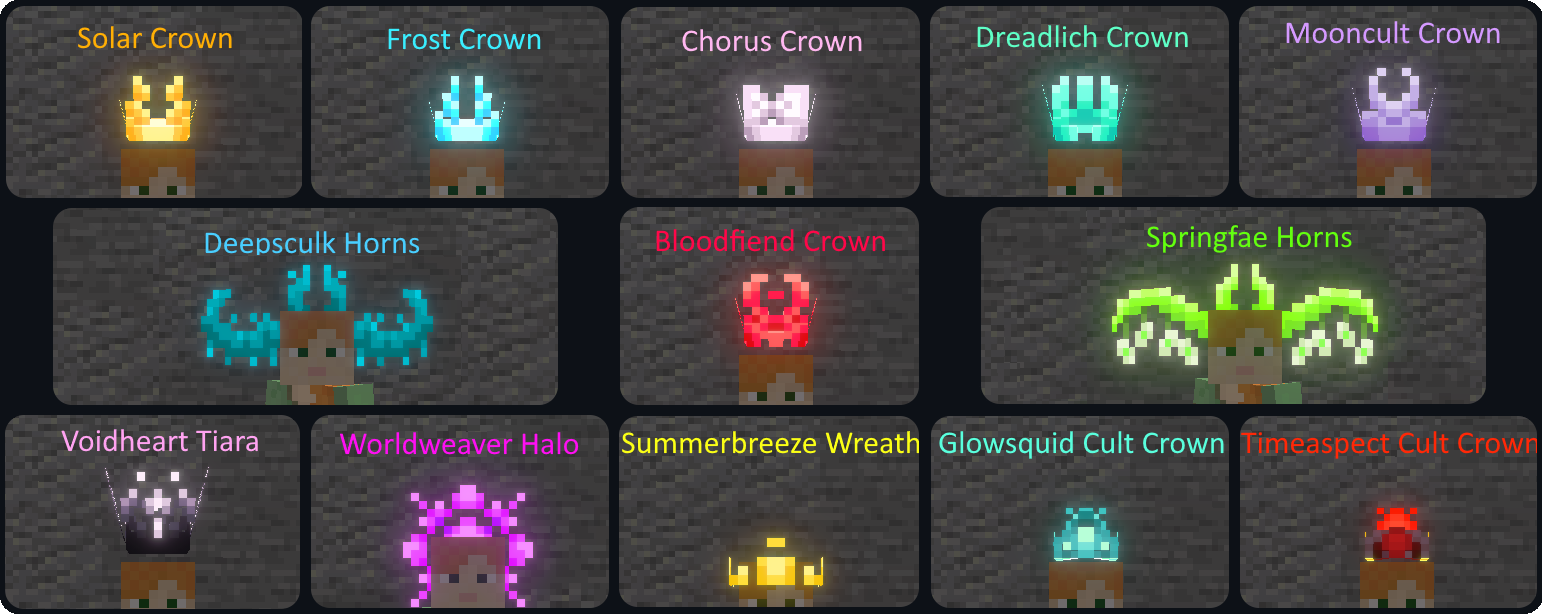
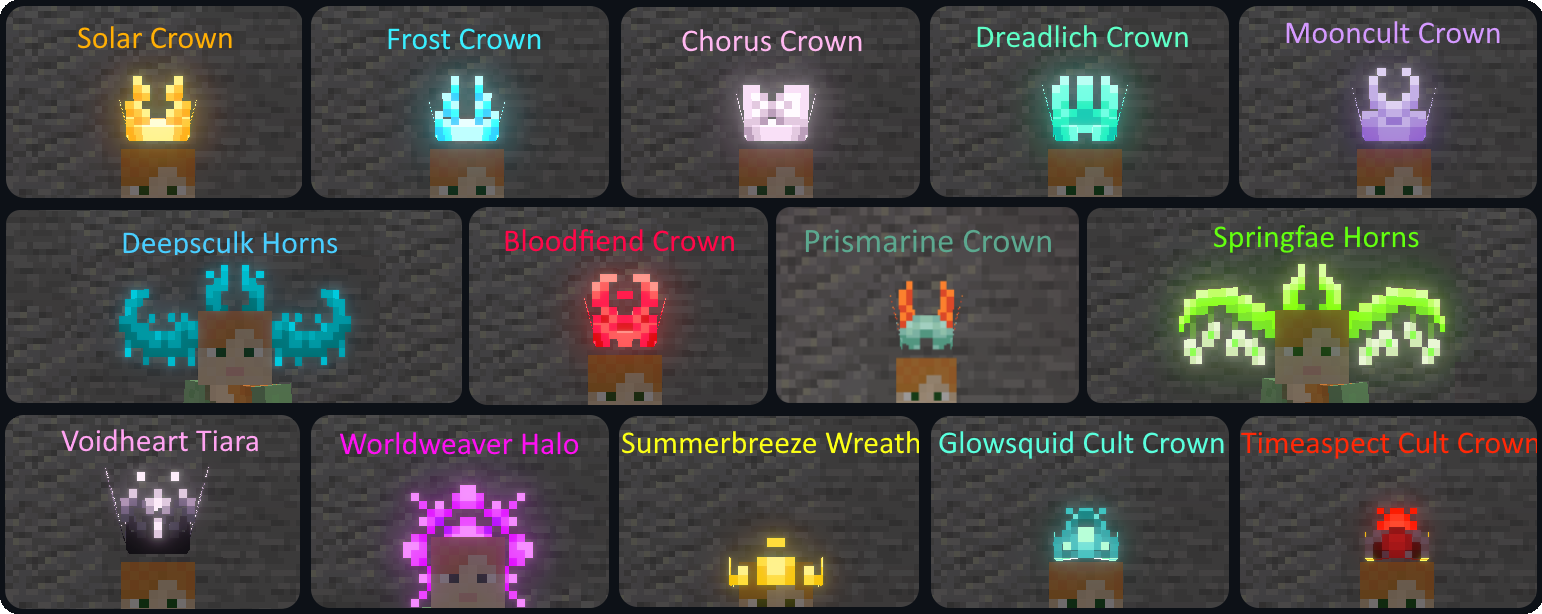
Update Illuminations wiki (#35)

Changed region(s): [[0.0, 0.3094, 1.0, 0.6808]]

diff --git a/wiki/illuminations.md b/wiki/illuminations.md
@@ -7,8 +7,6 @@ curse_project: 292908
 
 # Illuminations
 
-*[![img](https://img.shields.io/discord/292744693803122688?color=informational&label=Ladysnake&logo=Discord)](https://ladysnake.glitch.me)[![img](http://cf.way2muchnoise.eu/full_illuminations_downloads.svg)](https://www.curseforge.com/minecraft/mc-mods/illuminations)[![img](http://cf.way2muchnoise.eu/versions/minecraft_illuminations_latest.svg)](https://www.curseforge.com/minecraft/mc-mods/illuminations)[![img](https://img.shields.io/github/last-commit/ladysnake/illuminations)](https://github.com/ladysnake/illuminations/commits/main)*
-
 **Illuminations** is a client sided Minecraft Fabric mod that adds multiple ambient particles in order to make your world more enjoyable at night or in dark places.
 This mod is compatible with the [Canvas Renderer](https://www.curseforge.com/minecraft/mc-mods/canvas-renderer).
 
@@ -22,23 +20,31 @@ This mod is compatible with the [Canvas Renderer](https://www.curseforge.com/min
 
 #### Fireflies
 
-**Fireflies** are small flying insects that come out during the night and disappear when the sun rises. They will appear in small quantities in jungle, plains, savanna and taiga type biomes, medium quantities in forest and river type biomes and great quantity in swamp type biomes.
+**Fireflies** are small flying insects that **come out during the night** and disappear when the sun rises. They will appear in small quantities in jungle, plains, savanna and taiga type biomes, medium quantities in forest and river type biomes and great quantity in swamp type biomes.
 
 ![Fireflies](illuminations/Fireflies.png){: .wiki}
 
 #### Glowworms
 
-**Glowworms** are small larvae living in caves by sticking to the ceiling that will fall down if their support block is removed. They will appear in small quantities in jungle, plains, savanna and taiga type biomes, medium quantities in forest and river type biomes and great quantity in swamp type biomes.
+**Glowworms** are small larvae living in **caves** by **sticking to the ceiling** that will fall down if their support block is removed. They will appear in small quantities in jungle, plains, savanna and taiga type biomes, medium quantities in forest and river type biomes and great quantity in swamp type biomes.
 
 ![Wisps](illuminations/Glowworms.png){: .wiki}
 
 #### Glowing Plankton
 
-**Glowing Plankton** - even though difficult to notice because of its size - can be found floating around in the dark parts of the oceanic depths. They appear in any ocean biome as long as the light is sufficiently low.
+**Glowing Plankton** - even though difficult to notice because of its size - can be found floating around in the **dark parts of the oceanic depths**. They appear in any ocean biome as long as the light is sufficiently low.
 
 ![Glowing Plankton](illuminations/GlowingPlankton.png){: .wiki}
 
-### Halloween (October Specials)
+#### Prismarine Crystals
+
+These beautiful glowing shards will **spawn around sea lanterns**, with more appearing in darker areas.
+
+![Prismarine Crystals](illuminations/PrismarineCrystals.png){: .wiki}
+
+### Halloween Features
+
+These spooky features only appear during the month of October by default.
 
 #### Autumnflies
 
@@ -48,15 +54,27 @@ During the month of October, fireflies will adopt an orange tint instead of thei
 
 #### Eyes in the Dark
 
-Also during the month of October, you may come across glowing eyes in absolutely dark spots. These eyes will disappear if you come too close or if their darkness is disturbed by a light source.
+Also during the month of October, you may come across **glowing eyes** in **absolutely dark spots**. These eyes will disappear if you come too close or if their darkness is disturbed by a light source.
 
 ![Eyes In The Dark](illuminations/EyesInTheDark.png){: .wiki}
+
+#### Pumpkin Spirits
+
+These mischievous entities take the form of **small flying Jack o'Lanterns** and will act like Will o' Wisps, appearing from **Jack o'Lanterns at night!**
+
+![Pumpkin Spirits](illuminations/PumpkinSpirits.png){: .wiki}
+
+#### Poltergeists
+
+These **devious flying skulls** will appear from placed **skeleton skulls** at night and may also appear when you **kill undead at night!**
+
+![Poltergeists](illuminations/Poltergeists.png){: .wiki}
 
 ### Nether and End
 
 #### Will o' Wisps
 
-**Will o' Wisps** are rare small ghost-like creatures that appear in Soul Sand Valleys, flying through the air and phasing through Soul Sand. They also appear from Soul Lanterns, allowing the player to create a magical or eerie ambience by decorating their surroundings with those.
+**Will o' Wisps** are rare small ghost-like creatures that appear in **Soul Sand Valleys**, flying through the air and phasing through Soul Sand. They also appear from **Soul Lanterns**, allowing the player to create a magical or eerie ambience by decorating their surroundings with those.
 
 ![Wisps](illuminations/Wisps.png){: .wiki}
 
@@ -64,7 +82,7 @@ Also during the month of October, you may come across glowing eyes in absolutely
 
 #### Chorus Petals
 
-Appearing near Chorus flowers, these beautiful petals will twirl down to the ground, to the winds of the End, transitioning from a beautiful white to a majestic purple. The younger the flower is, the more petals will appear, and breaking a Chorus flower will provoke a burst of petals (again, the younger the flower, the more petals will burst).
+Appearing near **Chorus flowers**, these beautiful petals will twirl down to the ground, to the winds of the End, transitioning from a beautiful white to a majestic purple. The younger the flower is, the more petals will appear, and **breaking a Chorus flower** will provoke a **burst of petals** (again, the younger the flower, the more petals will burst).
 
 ![Chorus Petals](illuminations/ChorusPetals.png){: .wiki}
 
@@ -74,25 +92,23 @@ Appearing near Chorus flowers, these beautiful petals will twirl down to the gro
 
 ### Jeb Easter Egg Expansion
 
-*(Requires [Satin API](https://www.curseforge.com/minecraft/mc-mods/satin-api/), feature disabled with Canvas and Iris because of compatibility issues*
+*(Requires [Satin API](https://www.curseforge.com/minecraft/mc-mods/satin-api/), feature disabled with Canvas and Iris because of compatibility issues*)
 
-Renaming any mob in the game to jeb_ will apply a rainbow effect to it. This feature varies the colour values of the mobs and will work better on colourful mobs such as Creepers, Piglins and Shulkers and will barely make a difference on Skeletons or Wither Skeletons. However, even mobs with fewer colours will glow after being renamed
+Renaming any mob in the game to **jeb_** will apply a **rainbow effect** to it. This feature varies the colour values of the mobs and will work better on colourful mobs such as Creepers, Piglins and Shulkers and will barely make a difference on Skeletons or Wither Skeletons. However, even mobs with fewer colours will glow after being renamed.
 
-![More Colourful Mobs](illuminations/Jeb_Mobs+.gif){: .wiki}
-
-![Less Colourful Mobs](illuminations/Jeb_Mobs-.gif){: .wiki}
+![More Colourful Mobs](illuminations/Jeb_Mobs+.gif){: .wiki}![Less Colourful Mobs](illuminations/Jeb_Mobs-.gif){: .wiki}
 
 ![Jeb_ Axolotl and Glowsquid](illuminations/Jeb_MobsNew.gif){: .wiki}
 
 ## Cosmetics
 
-In addition to the ambience changes, Illuminations also features cosmetics, primarily for those who donated and contributed to the project, with the exception of the Pride Heart Collection that is available for all [Accounts](https://illuminations.uuid.gg/register). Cosmetics can be switched and customised using the [Illuminations Dashboard](https://illuminations.uuid.gg/). Since Illuminations is client-side you can use these cosmetics even on servers. Other players with Illuminations will be able to see your cosmetics.
+In addition to the ambience changes, Illuminations also features **cosmetics**, primarily for those who **donated and contributed** to the project, with the exception of the **Pride Heart Collection** that is available for all [Accounts](https://illuminations.uuid.gg/register). Cosmetics can be switched and customised using the [Illuminations Dashboard](https://illuminations.uuid.gg/). Since Illuminations is client-side you can use these cosmetics even on servers. Other players with Illuminations will be able to see your cosmetics.
 
 ### Pride Hearts
 
-Every Illuminations Account automatically has access to these 7 Pride Hearts that will follow you as pets, hovering next to your head!
+Every Illuminations Account automatically has **free access** to these **11 spinning Pride Hearts** that will follow you as pets, hovering and spinning next to your head! More information [here](https://illuminations.uuid.gg/pride).
 
-![Pride Heart Collection](illuminations/PrideHeartCollection.png){: .wiki}
+<img src="illuminations/PrideHeartCollection.png" alt="Pride Heart Collection" style="zoom:150%;" />
 
 ### Auras
 
@@ -106,19 +122,25 @@ The **Twilight aura** creates colored fireflies that will orbit around the playe
 
 #### Ghostly Aura
 
-The Ghostly Aura will summon the lost souls to scamper around you!
+The **Ghostly Aura** will summon the lost souls to scamper around you!
 
 ![Ghostly Aura](illuminations/GhostlyAura.gif){: .wiki}
 
 #### Chorus Aura
 
-The Chorus Aura makes you stand in a whirl of Chorus Petals, perfectly fit for your adventures in the end!
+The **Chorus Aura** makes you stand in a whirl of Chorus Petals, perfectly fit for your adventures in the end!
 
 ![Chorus Aura](illuminations/ChorusAura.gif){: .wiki}
 
+#### Prismarine Crystal Aura
+
+The power of the Guardians is strong with you! I can feel it... or rather see:
+
+![Prismarine Crystal Aura](illuminations/PrismarineCrystalAura.gif){: .wiki}
+
 #### Golden Rod Aura
 
-This Aura will give you that extra bit of an ominous glint, summoning Golden Rods all around you!
+This Aura will give you that extra bit of an ominous glint, summoning **Golden Rods** all around you!
 
 ![Golden Rod Aura](illuminations/GoldenRodAura.gif){: .wiki}
 
@@ -130,19 +152,19 @@ This dark Aura will strike fear in your enemies as you are sourrounded by a stor
 
 #### Sculk Tendrils Aura
 
-Are you excited for 1.18? This Aura will summon Tendrils from the Deep Dark to follow you and grow around your feet.
+Are you excited for 1.18? This Aura will summon Tendrils from the **Deep Dark** to follow you and grow around your feet.
 
 ![Sculk Tendrils Aura](illuminations/SculkTendrilsAura.gif){: .wiki}
 
 #### Autumn Leaves Aura
 
-A whirl of orange Leaves following your footsteps to bring that cosy autumn feeling to your world!
+A **whirl of orange Leaves** following your footsteps to bring that cosy autumn feeling to your world!
 
 ![Autumn Leaves Aura](illuminations/AutumnLeavesAura.gif){: .wiki}
 
 #### Confetti Aura
 
-This Aura will provide the perfect ambience for your celebrations. The Confetti pieces will stay on the ground for up to 20 seconds, marking your way through the world!
+This Aura will provide the perfect ambience for your celebrations. The **Confetti** pieces will stay on the ground for up to 20 seconds, marking your way through the world!
 
 ![Confetti Aura](illuminations/ConfettiAura.gif){: .wiki}
 
@@ -150,39 +172,65 @@ This Aura will provide the perfect ambience for your celebrations. The Confetti 
 
 #### Prismatic Confetti Aura
 
-A variation of the Confetti Aura that can be adjusted to only be of one colour of your choice.
+A **variation** of the **Confetti Aura** that can be adjusted to only be of one colour of your choice.
 
 ![Prismatic Confetti Aura](illuminations/PrismaticConfettiAura.gif){: .wiki}
 
 ### Overheads
 
-Overheads are different hats that tier 2 donators can decide to wear.
+**Overheads** are different hats that **tier 2 donators** can decide to wear:
 
 <img src="illuminations/Overheads.png" alt="Overheads" style="zoom:112%;" />
 
 ### Pets
 
-Other than the pride hearts tier 2 donators can also equip 5 other pets that will hover next to them and look at what their owner is looking at.
+Other than the pride hearts **tier 2 donators** can also equip other pets that will hover next to them and look at what their owner is looking at.
 
 #### Will o' Wisp
+
+A lost soul that escaped the horrors of the Nether and is now searching for reve- for you? It seems to just want a new friend and not a bloody revenge.
 
 ![Wisp Pet](illuminations/WispPet.gif){: .wiki}
 
 #### Golden Wisp
 
+You are going for the **shiny look**? In that case this pet might be the perfect match for your style, also looks great in combination with the [Golden Rod Aura](https://ladysnake.github.io/wiki/illuminations#golden-rod-aura)!
+
 ![Golden Wisp Pet](illuminations/GoldenWispPet.gif){: .wiki}
-
-#### Founding Skull
-
-![Founding Skull Pet](illuminations/FoundingSkullPet.gif){: .wiki}
 
 #### Dissolution Wisp
 
+Classical **Dissolution Wisp**, for those who missed a friend...
+
 ![Dissolution Wisp Pet](illuminations/DissolutionWispPet.gif){: .wiki}
+
+#### Lanterns
+
+These 4 different Lanterns are your friendly **2-faced companions that fly and spin next to you** to brighten your day! They are also perfect for watching your back.
+
+![Lantern Pets](illuminations/LanternPets.png){: .wiki}
+
+#### Founding Skull
+
+True villains always have some **true-villain-energy-pet**, so should you!
+
+![Founding Skull Pet](illuminations/FoundingSkullPet.gif){: .wiki}
+
+#### Poltergeist
+
+A friendly and respectable companion, just don't expect much sleep at night, **Poltergeists** are said to be quite some noisy fellows!
+
+![Poltergeist Pet](illuminations/PoltergeistPet.gif){: .wiki}
+
+#### Pumpkin Spirit
+
+This adopted Spirit that once spawned from a Jack o'Lantern might look a little grim sometimes but it will not bite you - most of the time that is.
+
+<img src="illuminations/PumpkinSpiritPet.gif" alt="Pumpkin Spirit Pet" style="zoom:120%;" />
 
 #### Jacko
 
-Jacko is a Jack o'Lantern that will light itself when it is night or dark, otherwise it will be extinguished.
+Jacko is a Jack o'Lantern that will **light itself when it is night** or dark, **otherwise** it will be **extinguished**.
 
 ![Jacko Pet](illuminations/JackoPet.png){: .wiki}
 
@@ -190,25 +238,99 @@ Jacko is a Jack o'Lantern that will light itself when it is night or dark, other
 
 Illuminations possesses a few config options you can use to change how the mod behaves to better fit your needs.
 
-### Eyes in the Dark
+They are split into general settings and biome specific customization. 
 
-Enable glowing eyes appearing in low light environments. Set on ENABLE by default.
-- ENABLE: Eyes will appear during October
-- DISABLE: Eyes will never appear
-- ALWAYS: Eyes will appear no matter the date
+It is recommended to use [mod menu](https://www.curseforge.com/minecraft/mc-mods/modmenu) for the configuration, although it is possible to use the configuration files in your ".minecraft" folder too.
 
-### Spawn Density
+### General Settings
 
-The spawn rate percentage multiplier. Does not affect eyes in the dark.
-0% Disables illuminations, 1000% Multiplies the amount of illuminations appearing by 10.
+![General Settings](illuminations/SettingsGeneral.png){: .wiki}
 
-### Firefly White Alpha
+#### Halloween Features
 
-Changes the Alphachannel of the Firefly centre glow.
+Enables the different Halloween features being the **Eyes in the Dark**, the **Poltergeists** and the **Pumpkin Spirits**. ALWAYS will enable the features always while ENABLE will limit them to October.
 
-### First Person Cosmetics
+**ENABLE**/DISABLE/ALWAYS
 
-Enable to see your cosmetics in first person! Disabled by default to not block your view.
+#### Eyes in the Dark Spawn Rate
+
+Manages the rate at which the **Eyes in the Dark** spawn.
+
+LOW/**MEDIUM**/HIGH
+
+#### Will o' Wisp Spawn Rate
+
+Manages the rate at which **Will o' Wisps** spawn.
+
+LOW/**MEDIUM**/HIGH/DISABLE
+
+#### Chorus Petals Spawn Multiplier
+
+Sets a multiplier to control the amount of **Chorus Petals** spawning from Chorus Flowers.
+
+0/**1**/2/.../9/10
+
+#### Spawn Density
+
+Controls the percentage of Illuminations spawns.
+
+0(Disabled)/.../**100(normal)**/.../1000(10x)
+
+#### Fireflies Spawn Always
+
+Enables Fireflies to spawn at daytime.
+
+Yes/**No**
+
+#### Fireflies Spawn Underground
+
+Enables Fireflies to spawn in caves.
+
+Yes/**No**
+
+#### Firefly White Alpha
+
+Controls the alpha value of the white center glow for **Fireflies**, **Glowworms**, **Plankton** and **Twilight Aura fireflies**.
+
+0(no white center)/**100(full alpha white center)**
+
+#### Firefly RAINBOW Mode
+
+If turned on, Fireflies are assigned an **individual random colour** on spawn.
+
+Yes/**No**
+
+<img src="illuminations/FireflyRainbowMode.png" alt="Rainbow Mode" style="zoom:60%;" />
+
+#### Auto-Update
+
+Once enabled the mod will **inform you about updates** on the title screen and **automatically update** itself on restart. Turned off by default to avoid confusion and compatibility issues.
+
+Yes/**No**
+
+#### See Cosmetics in First Person
+
+Enables you to see your own **player cosmetics in First Person**. Turned off by default to avoid an obstructed view.
+
+Yes/**No**
+
+#### Display donation toast
+
+Enables a small message on the title screen with a link to the illuminations donation page.
+
+**Yes**/No
+
+![Donation Toast](illuminations/DonationToast.png){: .wiki}
+
+
+
+### Biome Settings
+
+The Biome Settings allow you to customize the **Firefly Spawn Rate**, **Firefly Color**, **Glowworm Spawn Rate** and **Plankton Spawn Rate** for each biome category individually. You can find these settings in the different tabs in [mod menu](https://www.curseforge.com/minecraft/mc-mods/modmenu) (Overworld, Nether, End, Others) or in the configuration files.
+
+![Biome Settings (Forest)](illuminations/SettingsBiomes.png){: .wiki}
+
+
 
 ## FAQ
 
@@ -230,9 +352,9 @@ Enable to see your cosmetics in first person! Disabled by default to not block y
 
 #### I wish to support the mod and get an aura. What steps do I need to follow?
 
-In order to get an aura, you will need to make a PayPal donation by following [this link](https://www.paypal.com/donate/?token=khJOtftVs9CuPqxETbT8q2MyRlCrQXkpw-iOaI9NOPJSOpQouUb2Xg1uOifF8ZZDkSoi-W&Z3JncnB0) or via the Curse Forge donate button available on the project page. **When making your donation, please include your Minecraft UUID as well as a valid email address (so I may contact you in case of any problem) in your message.** All donations and aura attributions are manually processed and done as soon as possible, but may take up to a day so please be patient.
+In order to get an aura, please **follow the instructions [here](https://illuminations.uuid.gg/donators).**
 
-***Cosmetics only work on the fabric version of this mod!*** *The forge version is no longer maintained.*
+***Cosmetics only work on the up-to-date fabric versions of this mod!*** *The forge version is no longer maintained, some cosmetics might not work on older fabric versions.*
 
 #### I want to change my aura / the color of my prismatic auras / disable it, what do I do?
 
